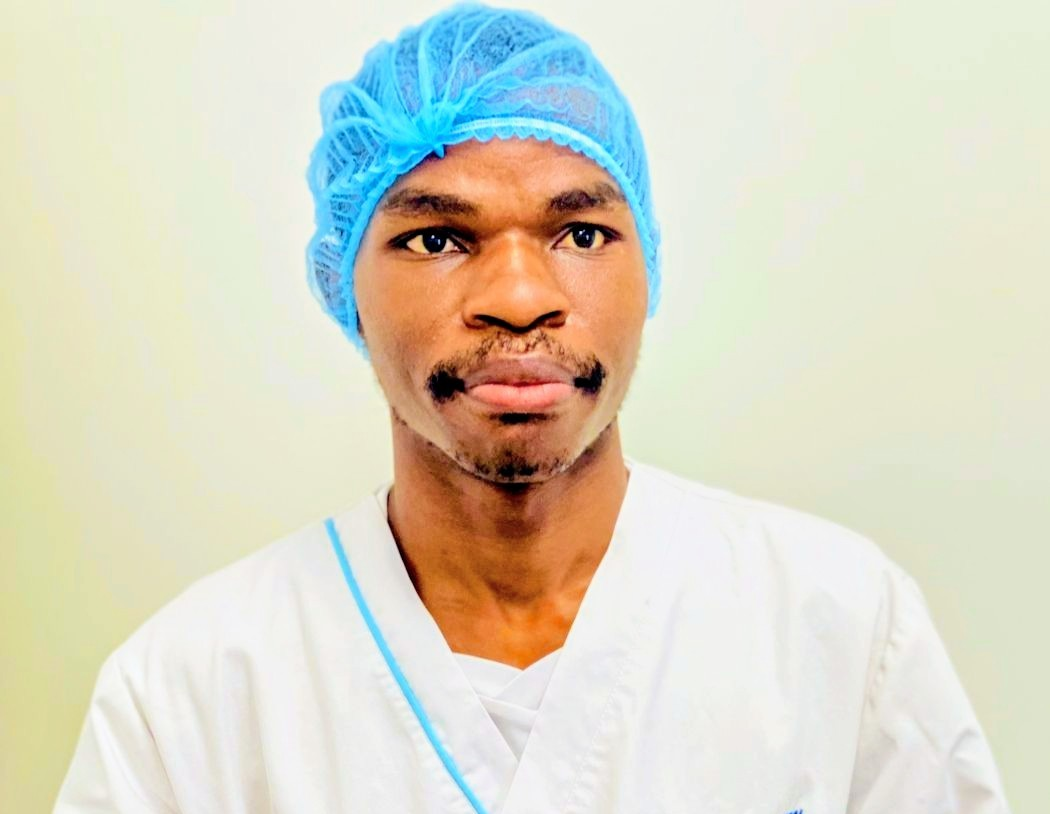
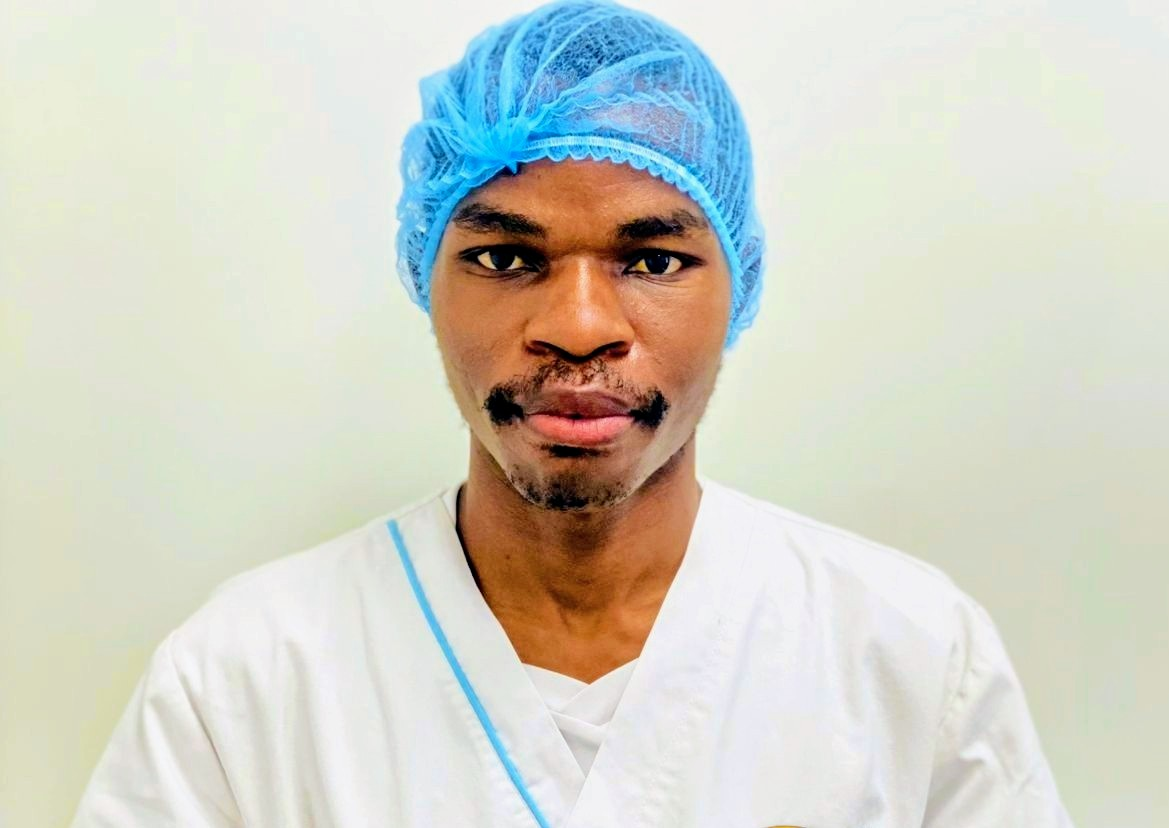
Add files via upload

diff --git a/main.html b/main.html
@@ -1,0 +1,89 @@
+<!DOCTYPE html>
+<html lang="pt">
+<head>
+  <meta name="viewport" content="width=device-width, initial-scale=1.0">
+  <meta http-equiv="CONTENT-TYPE" content="text/html; charset=UTF-8">
+  <link rel="stylesheet" href="https://cdnjs.cloudflare.com/ajax/libs/font-awesome/6.5.1/css/all.min.css">
+  <link rel="stylesheet" href="style.css">
+  <title>PACI | Dev Web</title>
+  <link rel="icon" type="image/png" href="icone.jpg">
+  </head>
+<body style="background:black;">
+  <h1>Paciência dev web</h1>
+  <img class="img-hover"style="width: 128px; height: 128px; border-radius: 50%; box-shadow: 0px 10px 15px rgba(0,250,250);"
+  src="paci.jpg" alt="Eu foto meio corpo e com toca descartável na cabeça">
+  <h2>Portifólio</h2>
+    <br>
+<div class="card-neon" style="display:flex; align-items:center; gap:16px; padding: 8px 8px; background:#555; border-radius:25px;">
+  
+  <img class="foto"
+      src="img.jpeg" alt="Eu sentado em estúdio com uma placa de facebook na mão"
+       style="width: 128px; height:128px; border-radius: 30px; border: 4px solid #030; object-fit: cover;">
+  <div class="piscar-fundo">
+    <h3 style="color: black;">Meu perfil</h3>
+    <p style="color: white; font-size: 15px;">Paciência Pascoal. Desenvolvedor web Frontend, tenho experiência em criação de sites reponsivos.</p> <hr> <p style="color: white; font-family: Serif;"> <strong>Vai nas redes sociais&#128161;.</strong></p>
+  </div>
+ </div>
+<div class="callout" style="text-indent: 15px; background:#cff; border-radius: 25px; border-left: 4px solid #3b82f6; border-bottom: 4px solid #0FF;">
+  <h3 style="border-radius: 100% solid;">Sobre Mim</h3>
+  <p>- Formado no ramo da saúde.<p/>
+    <p>- Dedicado ao trabalho.</p>
+  <p>- Tempos livres gosto estudar e pesquisar</p>
+  <p>- Manjo bem com tecnologia.</p>
+  <p>- Gosto de assistir ao animes e doramas.</p>
+  <p>- Programo com HTML, CSS e + linguagens.</p>
+  <p>- Experiente em IA e programacão.</p>
+ </div>
+  <div style="align-items:center; display:flex; gap: 16px; padding:16px; border-radius: 20px;">
+ <div  style="padding: 4px;">
+  <img class="imagem"style="height: 128px; width: 300px; gap: 8px" src="imagem.jpeg" alt="Imagem de monitoramento cardiáco">
+  <h2 style="font-size: 20px">Experiência de Trabalho</h2>
+  <ul type="circle" style="color: white; text-indent: 20px; ">
+    <li>2019 - Trabalhei como Professor</li>
+    <li>2020 - Trabalhei na Farmácia</li>
+    <li>2022 - Posto de Enfermagem</li>
+    <li>2024 - Ministério da saúde*</li>
+    <li>2025 - Uso Python+Css+Html+Js e mais</li>
+  </ul>
+  <p style="color:#ccc;text-indent:25px"><span>*Actualmente continuo neste Ministério.</span></p>
+  </div>
+  </div> <br>
+  
+  <!-- CAIXA QUE SEGURA TODOS OS LINKS -->
+<div style="display:flex; gap: 12px; margin: 0 auto; display: block; width: 350px; text-align: center;">
+  
+  <!-- ÂNCORA 1: LINK -->
+  <a href="https://github.com/vinilcy" target="_blank" 
+     style="padding:12px 20px; background:#24292e; color:white; 
+            border-radius: 50px; text-decoration:none; font-weight:bold; cursor: pointer;">
+    GitHub
+  </a>
+
+  <!-- ÂNCORA 2: LINK -->
+  <a href="https://ao.linkedin.com/in/paci%C3%AAncia-pascoal-cape%C3%A7a-1aa86a383" target="_blank"
+     style="padding:12px 20px; background:#0A66C2; color:white; 
+            border-radius: 50px; text-decoration:none; font-weight:bold; cursor: pointer;">
+    LinkedIn
+  </a>
+  <!-- ÂNCORA 3: LINK -->
+  <a href="https://youtube.com/@pacienciacapeca?si=sivpnH0UqqXVD1XH" target="_blank"
+  style="padding: 12px 20px; background:red; color:white; border-radius: 50px; text-decoration:none; font-weight: bold; cursor: pointer;">
+    Youtube
+  </a>
+</div>
+ <a href="https://wa.me/244923784616?text=Olá%20vim%20do%20site!%20Gostaria%20pedir%20um%20projeto,%20pois%20gostei%20do%20seu%20site🥰" 
+     target="_blank" 
+     rel="noopener"
+     class="whatsapp-btn" 
+     id="btnZap">
+   <svg viewBox="0 0 32 32">
+    <path d="M16.002 3C8.815 3 3 8.815 3 16.002c0 2.838.925 5.47 2.485 7.59L3 29l5.59-2.425a12.936 12.936 0 0 0 7.412 2.375c7.187 0 13.002-5.815 13.002-13.002S23.188 3 16.002 3zm6.53 18.532c-.281.843-1.624 1.508-2.227 1.58-.559.066-1.272.089-2.056-.132-4.75-1.334-7.865-5.76-8.1-6.028-.246-.266-2.004-2.665-2.004-5.09 0-2.425 1.27-3.62 1.72-4.112.449-.491.98-.613 1.309-.613.328 0 .656 0 .942.017.306.014.718-.115 1.127.868.46 1.108 1.584 3.837 1.724 4.116.14.279.232.605.057.972-.175.366-.255.594-.51.909-.256.315-.538.701-.768.943-.262.267-.536.556-.23 1.08.306.525 1.359 2.24 2.914 3.63 2.005 1.79 3.69 2.35 4.216 2.61.525.262.83.22 1.138-.133.308-.353 1.315-1.54 1.67-2.07.354-.53.708-.44 1.197-.264.49.177 3.11 1.47 3.642 1.74.532.27.887.403 1.019.62.132.217.132 1.264-.149 2.107z"/>
+  </svg>
+</a>
+  </body>
+  <br><br>
+  <footer style="text-align: center;">
+      <p style="color:white">&copy; 2026 DevPaci, Todos direitos reservados.</p>
+  </footer>
+  </body>
+  </html>
